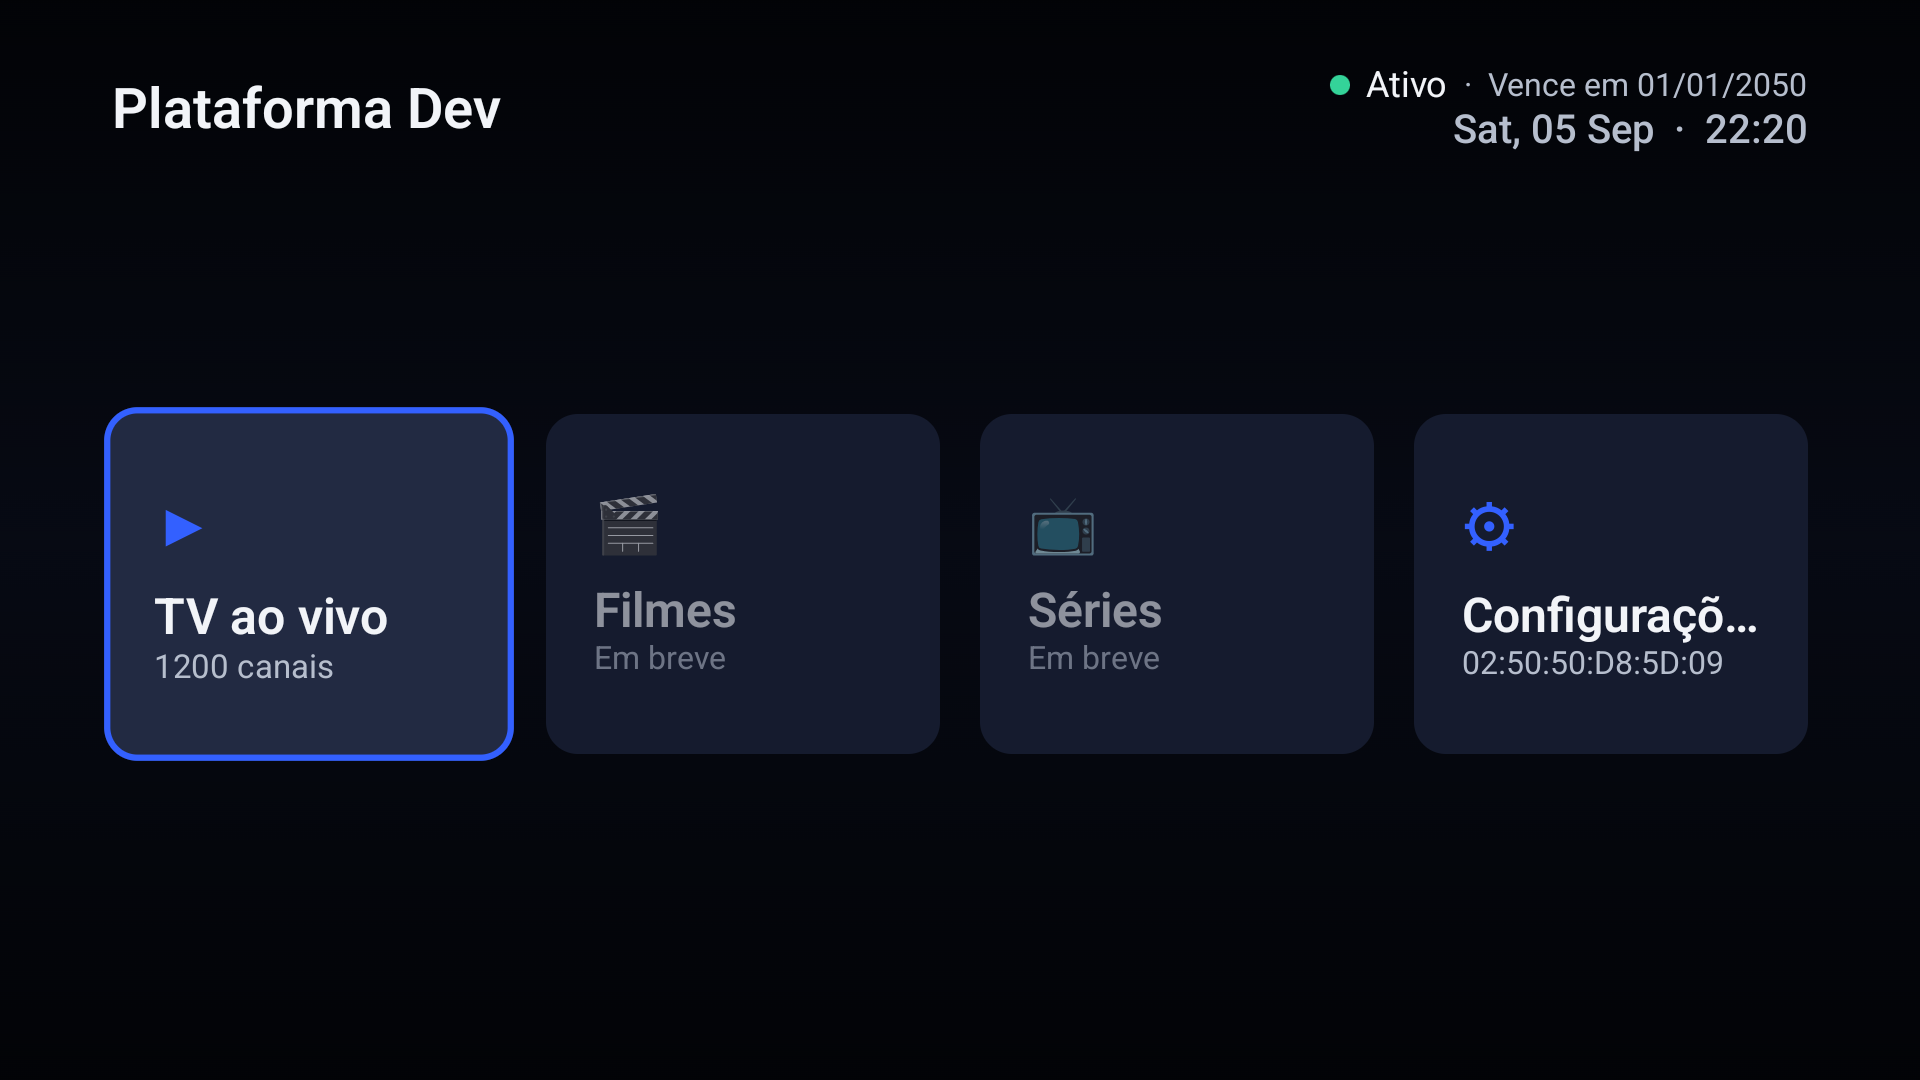
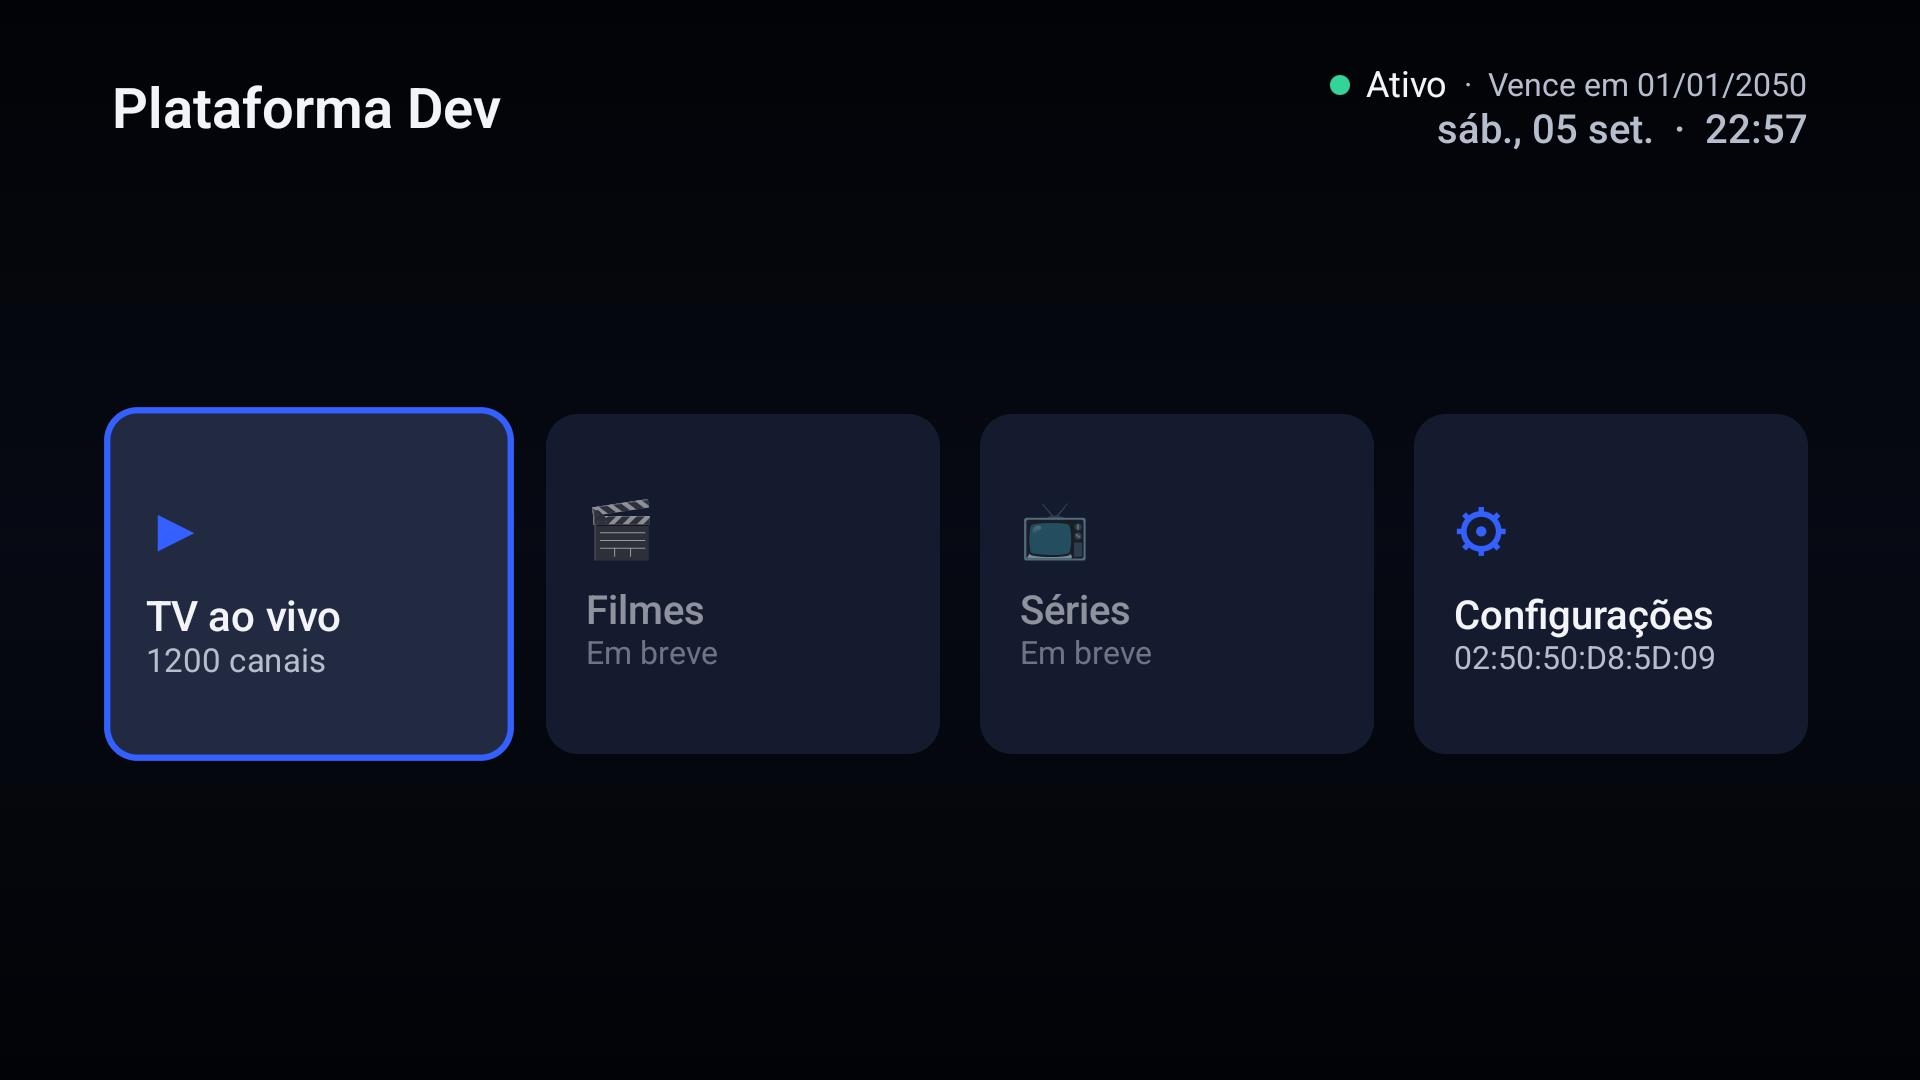
feat(android): player validated on the AVD with HLS, local TS, zapping, tracks and retries (block 6)
PlayerScreen on Media3: HLS (public Mux stream) and MPEG-TS (local fixture) play full
screen; up/down zap inside the list the user came from, left/right open the quick list,
digits tune by number, MENU opens the audio/subtitle panel, OK toggles the info overlay
and BACK closes panels before leaving (BackHandler). Errors show a Portuguese message,
retry twice with backoff and then offer "Tentar novamente"; URLs are redacted in logs.
The screen keeps the display on, releases the decoder on stop and resumes on start; the
live preview and the player share the single PlayerSession.

Player and API error messages now follow the language chosen in the settings (AppLocale)
instead of the system locale captured at DI time. Home card titles stay on one line, the
date uses the app locale via ConfigurationCompat, release signing resolves the keystore
from the project root, and lint errors (NewApi, UnstableApi opt-in, NonObservableLocale)
plus the deprecated hiltViewModel import were cleaned up.

diff --git a/android/app/src/main/java/pro/bixplayer/player/ui/screens/home/HomeScreen.kt b/android/app/src/main/java/pro/bixplayer/player/ui/screens/home/HomeScreen.kt
@@ -41,15 +41,17 @@ import androidx.compose.ui.input.key.onKeyEvent
 import androidx.compose.ui.input.key.type
 import androidx.compose.ui.layout.ContentScale
 import androidx.compose.ui.platform.LocalConfiguration
+import androidx.core.os.ConfigurationCompat
 import androidx.compose.ui.res.stringResource
 import androidx.compose.ui.text.style.TextOverflow
 import androidx.compose.ui.unit.dp
-import androidx.hilt.navigation.compose.hiltViewModel
+import androidx.hilt.lifecycle.viewmodel.compose.hiltViewModel
 import androidx.lifecycle.compose.collectAsStateWithLifecycle
 import coil3.compose.AsyncImage
 import java.time.LocalDate
 import java.time.LocalTime
 import java.time.format.DateTimeFormatter
+import java.util.Locale
 import kotlinx.coroutines.delay
 import pro.bixplayer.player.R
 import pro.bixplayer.player.domain.model.AppConfig
@@ -85,9 +87,10 @@ fun HomeScreen(
     }
 
     Box(modifier = Modifier.fillMaxSize().background(MaterialTheme.colorScheme.background)) {
-        if (!config?.backgroundUrl.isNullOrBlank()) {
+        val backgroundUrl = config?.backgroundUrl
+        if (!backgroundUrl.isNullOrBlank()) {
             AsyncImage(
-                model = config?.backgroundUrl,
+                model = backgroundUrl,
                 contentDescription = null,
                 contentScale = ContentScale.Crop,
                 modifier = Modifier.fillMaxSize(),
@@ -181,17 +184,18 @@ private fun TopBar(config: AppConfig?, syncing: Boolean, channelCount: Int) {
         }
     }
     // The date speaks the language chosen in the settings, not the system one.
-    val locale = LocalConfiguration.current.locales[0]
+    val locale = ConfigurationCompat.getLocales(LocalConfiguration.current)[0] ?: Locale.forLanguageTag("pt-BR")
     val clock = remember(now) { now.format(DateTimeFormatter.ofPattern("HH:mm")) }
     val date = remember(now.hour, locale) {
         LocalDate.now().format(DateTimeFormatter.ofPattern("EEE, dd MMM", locale))
     }
 
     Row(verticalAlignment = Alignment.CenterVertically, modifier = Modifier.fillMaxWidth()) {
-        if (!config?.logoUrl.isNullOrBlank()) {
+        val logoUrl = config?.logoUrl
+        if (!logoUrl.isNullOrBlank()) {
             AsyncImage(
-                model = config?.logoUrl,
-                contentDescription = config?.platformName,
+                model = logoUrl,
+                contentDescription = config.platformName,
                 contentScale = ContentScale.Fit,
                 modifier = Modifier.heightIn(max = 56.dp).width(180.dp),
             )
@@ -273,15 +277,15 @@ private fun MenuCard(
                     false
                 }
             }
-            .padding(24.dp),
+            .padding(horizontal = 20.dp, vertical = 24.dp),
     ) {
         Text(text = icon, style = MaterialTheme.typography.headlineMedium, color = MaterialTheme.colorScheme.primary)
         Spacer(Modifier.height(12.dp))
         Text(
             text = title,
-            style = MaterialTheme.typography.titleLarge,
+            style = MaterialTheme.typography.titleMedium,
             color = MaterialTheme.colorScheme.onSurface,
-            maxLines = 2,
+            maxLines = 1,
             overflow = TextOverflow.Ellipsis,
         )
         Text(

diff --git a/android/app/src/main/java/pro/bixplayer/player/util/AppLocale.kt b/android/app/src/main/java/pro/bixplayer/player/util/AppLocale.kt
@@ -1,0 +1,62 @@
+package pro.bixplayer.player.util
+
+import android.content.Context
+import android.content.ContextWrapper
+import android.content.res.Configuration
+import android.content.res.Resources
+import androidx.annotation.StringRes
+import dagger.hilt.android.qualifiers.ApplicationContext
+import java.util.Locale
+import javax.inject.Inject
+import javax.inject.Singleton
+import kotlinx.coroutines.CoroutineScope
+import kotlinx.coroutines.Dispatchers
+import kotlinx.coroutines.SupervisorJob
+import kotlinx.coroutines.launch
+import pro.bixplayer.player.data.datastore.DevicePreferences
+import pro.bixplayer.player.data.datastore.DeviceStore
+
+/**
+ * A context whose resources speak [languageTag], wrapped around [this] so that anything that
+ * walks the wrapper chain (Hilt's view-model factory looks for the activity) still works.
+ */
+fun Context.localized(languageTag: String): Context {
+    val locale = Locale.forLanguageTag(languageTag)
+    val configuration = Configuration(resources.configuration).apply { setLocale(locale) }
+    val localizedResources = createConfigurationContext(configuration).resources
+    return object : ContextWrapper(this) {
+        override fun getResources(): Resources = localizedResources
+    }
+}
+
+/**
+ * The language chosen in the settings, for code that needs strings outside composition:
+ * player errors, API error messages. Composables get the same language from `BixLocale`.
+ */
+@Singleton
+class AppLocale @Inject constructor(
+    @ApplicationContext private val context: Context,
+    store: DeviceStore,
+) {
+    private val scope = CoroutineScope(SupervisorJob() + Dispatchers.Main.immediate)
+
+    @Volatile
+    var languageTag: String = DevicePreferences.DEFAULT_LANGUAGE
+        private set
+
+    @Volatile
+    private var cache: Pair<String, Resources>? = null
+
+    init {
+        scope.launch { store.language.collect { languageTag = it } }
+    }
+
+    val resources: Resources
+        get() {
+            val tag = languageTag
+            cache?.takeIf { it.first == tag }?.let { return it.second }
+            return context.localized(tag).resources.also { cache = tag to it }
+        }
+
+    fun string(@StringRes id: Int, vararg args: Any): String = resources.getString(id, *args)
+}

diff --git a/android/app/src/main/java/pro/bixplayer/player/di/AppModule.kt b/android/app/src/main/java/pro/bixplayer/player/di/AppModule.kt
@@ -33,6 +33,7 @@ import pro.bixplayer.player.data.api.dto.DeviceConfigDto
 import pro.bixplayer.player.data.repository.DefaultErrorMessages
 import pro.bixplayer.player.data.repository.ErrorMessages
 import pro.bixplayer.player.player.PlayerMessages
+import pro.bixplayer.player.util.AppLocale
 import pro.bixplayer.player.util.DeviceIdentity
 import retrofit2.Retrofit
 import retrofit2.converter.moshi.MoshiConverterFactory
@@ -137,21 +138,11 @@ object AppModule {
 
     @Provides
     @Singleton
-    fun provideErrorMessages(@ApplicationContext context: Context): ErrorMessages =
-        DefaultErrorMessages(
-            network = context.getString(R.string.error_network),
-            server = context.getString(R.string.error_server),
-            unknown = context.getString(R.string.error_unknown),
-        )
+    fun provideErrorMessages(locale: AppLocale): ErrorMessages = ResourceErrorMessages(locale)
+
     @Provides
     @Singleton
-    fun providePlayerMessages(@ApplicationContext context: Context): PlayerMessages = PlayerMessages(
-        generic = context.getString(R.string.player_error),
-        network = context.getString(R.string.player_error_network),
-        httpStatus = { status -> context.getString(R.string.player_error_http, status) },
-        unsupported = context.getString(R.string.player_error_unsupported),
-        vlcUnavailable = context.getString(R.string.player_error_vlc),
-    )
+    fun providePlayerMessages(locale: AppLocale): PlayerMessages = PlayerMessages(locale)
 }
 
 /**
@@ -161,4 +152,13 @@ object AppModule {
 @Singleton
 class DeviceApiHolder @Inject constructor() {
     lateinit var api: DeviceApi
+}
+
+/** [ErrorMessages] that re-reads the strings on every call, so a language change applies at once. */
+class ResourceErrorMessages(private val locale: AppLocale) : ErrorMessages {
+    override fun forThrowable(error: Throwable?): String = DefaultErrorMessages(
+        network = locale.string(R.string.error_network),
+        server = locale.string(R.string.error_server),
+        unknown = locale.string(R.string.error_unknown),
+    ).forThrowable(error)
 }

diff --git a/android/app/src/main/java/pro/bixplayer/player/ui/locale/BixLocale.kt b/android/app/src/main/java/pro/bixplayer/player/ui/locale/BixLocale.kt
@@ -1,16 +1,12 @@
 package pro.bixplayer.player.ui.locale
 
-import android.content.Context
-import android.content.ContextWrapper
-import android.content.res.Configuration
-import android.content.res.Resources
 import androidx.compose.runtime.Composable
 import androidx.compose.runtime.CompositionLocalProvider
 import androidx.compose.runtime.remember
 import androidx.compose.ui.platform.LocalConfiguration
 import androidx.compose.ui.platform.LocalContext
 import androidx.compose.ui.platform.LocalResources
-import java.util.Locale
+import pro.bixplayer.player.util.localized
 
 /** Languages the settings screen offers. Tags match the `values-*` resource folders. */
 object AppLanguages {
@@ -35,25 +31,11 @@ object AppLanguages {
 @Composable
 fun BixLocale(languageTag: String, content: @Composable () -> Unit) {
     val base = LocalContext.current
-    val localized = remember(base, languageTag) { localizedContext(base, languageTag) }
+    val localized = remember(base, languageTag) { base.localized(languageTag) }
     CompositionLocalProvider(
         LocalContext provides localized,
         LocalResources provides localized.resources,
         LocalConfiguration provides localized.resources.configuration,
         content = content,
     )
-}
-
-/**
- * A wrapper over the activity context whose resources speak [languageTag]. It has to stay a
- * `ContextWrapper` around the activity: Hilt's view-model factory walks the wrapper chain to
- * find the activity, and a bare `createConfigurationContext` result would break it.
- */
-private fun localizedContext(base: Context, languageTag: String): Context {
-    val locale = Locale.forLanguageTag(languageTag)
-    val configuration = Configuration(base.resources.configuration).apply { setLocale(locale) }
-    val resources = base.createConfigurationContext(configuration).resources
-    return object : ContextWrapper(base) {
-        override fun getResources(): Resources = resources
-    }
 }

diff --git a/android/app/src/main/java/pro/bixplayer/player/ui/screens/player/PlayerScreen.kt b/android/app/src/main/java/pro/bixplayer/player/ui/screens/player/PlayerScreen.kt
@@ -1,6 +1,7 @@
 package pro.bixplayer.player.ui.screens.player
 
 import androidx.activity.compose.BackHandler
+import androidx.annotation.OptIn
 import androidx.compose.animation.AnimatedVisibility
 import androidx.compose.animation.fadeIn
 import androidx.compose.animation.fadeOut
@@ -49,11 +50,12 @@ import androidx.compose.ui.platform.LocalView
 import androidx.compose.ui.res.stringResource
 import androidx.compose.ui.text.style.TextOverflow
 import androidx.compose.ui.unit.dp
-import androidx.hilt.navigation.compose.hiltViewModel
+import androidx.hilt.lifecycle.viewmodel.compose.hiltViewModel
 import androidx.lifecycle.Lifecycle
 import androidx.lifecycle.LifecycleEventObserver
 import androidx.lifecycle.compose.LocalLifecycleOwner
 import androidx.lifecycle.compose.collectAsStateWithLifecycle
+import androidx.media3.common.util.UnstableApi
 import androidx.media3.ui.AspectRatioFrameLayout
 import java.time.LocalTime
 import java.time.format.DateTimeFormatter
@@ -73,6 +75,7 @@ import pro.bixplayer.player.ui.theme.bixFocusable
  * list the user came from, ←/→ open the quick channel list, MENU opens audio/subtitle tracks,
  * digits tune by number and BACK closes whatever is open before leaving the screen.
  */
+@OptIn(UnstableApi::class)
 @Composable
 fun PlayerScreen(
     onExit: () -> Unit,

diff --git a/android/app/src/main/java/pro/bixplayer/player/player/PlayerEngine.kt b/android/app/src/main/java/pro/bixplayer/player/player/PlayerEngine.kt
@@ -2,6 +2,8 @@ package pro.bixplayer.player.player
 
 import androidx.media3.common.Player
 import kotlinx.coroutines.flow.StateFlow
+import pro.bixplayer.player.R
+import pro.bixplayer.player.util.AppLocale
 
 /** What the engine is doing right now, as far as the UI cares. */
 sealed interface PlaybackState {
@@ -29,14 +31,15 @@ data class TrackOption(
     val selected: Boolean,
 )
 
-/** Messages the engines surface to the user. Resolved from resources by the DI module. */
-data class PlayerMessages(
-    val generic: String,
-    val network: String,
-    val httpStatus: (Int) -> String,
-    val unsupported: String,
-    val vlcUnavailable: String,
-)
+/** Messages the engines surface to the user, resolved in the language chosen in the settings. */
+class PlayerMessages(private val locale: AppLocale) {
+    val generic: String get() = locale.string(R.string.player_error)
+    val network: String get() = locale.string(R.string.player_error_network)
+    val unsupported: String get() = locale.string(R.string.player_error_unsupported)
+    val vlcUnavailable: String get() = locale.string(R.string.player_error_vlc)
+
+    fun httpStatus(status: Int): String = locale.string(R.string.player_error_http, status)
+}
 
 /**
  * The playback engine behind the player screen and the live preview.

diff --git a/android/app/src/main/java/pro/bixplayer/player/domain/usecase/PlaylistSyncUseCase.kt b/android/app/src/main/java/pro/bixplayer/player/domain/usecase/PlaylistSyncUseCase.kt
@@ -135,7 +135,7 @@ class PlaylistSyncUseCase @Inject constructor(
             if (!response.isSuccessful) {
                 throw XtreamException("O servidor da playlist respondeu ${response.code}.")
             }
-            val body = response.body ?: throw XtreamException("A playlist veio vazia.")
+            val body = response.body
             body.byteStream().use { stream ->
                 var index = 0
                 M3uParser.parse(stream) { entry ->

diff --git a/android/app/src/main/java/pro/bixplayer/player/ui/screens/live/LiveScreen.kt b/android/app/src/main/java/pro/bixplayer/player/ui/screens/live/LiveScreen.kt
@@ -52,7 +52,7 @@ import androidx.compose.ui.text.input.ImeAction
 import androidx.compose.ui.text.style.TextOverflow
 import androidx.compose.ui.unit.Dp
 import androidx.compose.ui.unit.dp
-import androidx.hilt.navigation.compose.hiltViewModel
+import androidx.hilt.lifecycle.viewmodel.compose.hiltViewModel
 import androidx.lifecycle.compose.collectAsStateWithLifecycle
 import androidx.paging.compose.collectAsLazyPagingItems
 import coil3.compose.AsyncImage

diff --git a/android/app/src/main/java/pro/bixplayer/player/ui/screens/playlists/ChangePlaylistScreen.kt b/android/app/src/main/java/pro/bixplayer/player/ui/screens/playlists/ChangePlaylistScreen.kt
@@ -30,7 +30,7 @@ import androidx.compose.ui.input.key.type
 import androidx.compose.ui.res.stringResource
 import androidx.compose.ui.text.style.TextOverflow
 import androidx.compose.ui.unit.dp
-import androidx.hilt.navigation.compose.hiltViewModel
+import androidx.hilt.lifecycle.viewmodel.compose.hiltViewModel
 import androidx.lifecycle.compose.collectAsStateWithLifecycle
 import pro.bixplayer.player.R
 import pro.bixplayer.player.domain.model.Playlist

diff --git a/android/app/src/main/java/pro/bixplayer/player/ui/screens/activation/ActivationScreen.kt b/android/app/src/main/java/pro/bixplayer/player/ui/screens/activation/ActivationScreen.kt
@@ -38,7 +38,7 @@ import androidx.compose.ui.text.font.FontWeight
 import androidx.compose.ui.text.style.TextAlign
 import androidx.compose.ui.unit.dp
 import androidx.compose.ui.unit.sp
-import androidx.hilt.navigation.compose.hiltViewModel
+import androidx.hilt.lifecycle.viewmodel.compose.hiltViewModel
 import androidx.lifecycle.compose.collectAsStateWithLifecycle
 import pro.bixplayer.player.R
 import pro.bixplayer.player.ui.components.BixButton

diff --git a/android/app/src/main/java/pro/bixplayer/player/ui/BixNavHost.kt b/android/app/src/main/java/pro/bixplayer/player/ui/BixNavHost.kt
@@ -3,7 +3,7 @@ package pro.bixplayer.player.ui
 import androidx.compose.runtime.Composable
 import androidx.compose.runtime.LaunchedEffect
 import androidx.compose.runtime.getValue
-import androidx.hilt.navigation.compose.hiltViewModel
+import androidx.hilt.lifecycle.viewmodel.compose.hiltViewModel
 import androidx.lifecycle.compose.collectAsStateWithLifecycle
 import androidx.navigation.NavHostController
 import androidx.navigation.NavType

diff --git a/android/app/src/main/java/pro/bixplayer/player/ui/screens/settings/SettingsScreen.kt b/android/app/src/main/java/pro/bixplayer/player/ui/screens/settings/SettingsScreen.kt
@@ -33,7 +33,7 @@ import androidx.compose.ui.input.key.onKeyEvent
 import androidx.compose.ui.input.key.type
 import androidx.compose.ui.res.stringResource
 import androidx.compose.ui.unit.dp
-import androidx.hilt.navigation.compose.hiltViewModel
+import androidx.hilt.lifecycle.viewmodel.compose.hiltViewModel
 import androidx.lifecycle.compose.collectAsStateWithLifecycle
 import kotlinx.coroutines.delay
 import pro.bixplayer.player.R
